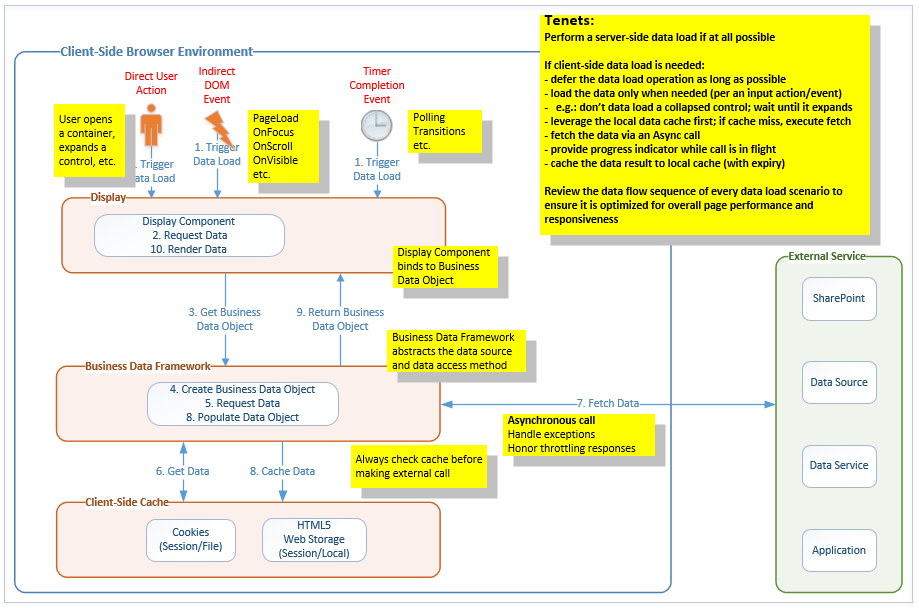
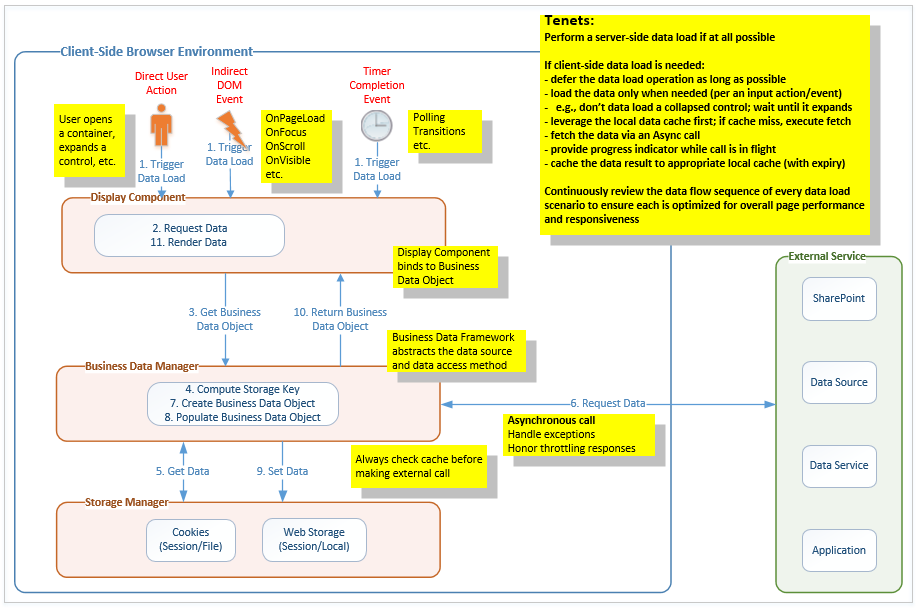
Minor edits; added reference to DAL sample

diff --git a/articles/portal-performance.md b/articles/portal-performance.md
@@ -288,19 +288,27 @@ The Client-Side Data Access Layer (DAL) Framework is a custom client-side JavaSc
 
 There are a number of client-side JavaScript Frameworks and Libraries that you can leverage to implement the DAL. Choose the one with which you are most familiar and adhere to the following tenets.  Use the logical architecture proposed below as a template for your implementation.
 
+The **Client-Side Data Access Layer (DAL) Sample** provides a working reference implementation of the Client-Side Data Access Layer (DAL) Framework. You can access the sample on GitHub:
+
+- [Client-Side Data Access Layer (DAL) Sample](https://github.com/SharePoint/PnP/tree/master/Samples/Portal.DataAccessLayer)
+
 ### Architectural Tenets
 <a name="bk_dalTenets"> </a>
 
 - Performance is Feature #1
 - Core component of the overall client-side framework
 	- to be leveraged by all custom client-side web applications and components for consistency and performance
-- Fulfill data requests via the local data cache; if a cache miss occurs, execute the client-to-server data fetch
-- Fetch the server data via an asynchronous AJAX call (never use a synchronous AJAX call)
+- Fulfill data requests via the client-side data cache; if a cache miss occurs, execute the client-to-server data fetch
+- Fetch the server data via an asynchronous client-to-server AJAX call (never use a synchronous call)
+- Reduce cascading call failures by re-using stale data when/if a data request fails
 - Honor request throttling responses and adjust behavior accordingly
-- Store the server data response in the local cache using a minimal, request-independent JSON representation
-- Support a private cache for personal data and a public cache for shared data
-- Support component-specific cache expiration values that align with the volatility of the associated data
-- Continuously monitor and review data flow scenarios/sequences to ensure each remains optimized for overall page performance and responsiveness
+- Store the server data response in the client-side cache using a minimal, request-independent JSON representation
+- Support transient and durable storage options
+- Use transient storage for personal data and durable storage for shared data
+- Support absolute and sliding expiration policies
+- Allow each storage entry to configure its own storage options for storage (transient/durable), expiration policy (absolute/sliding), and expiration timeout (in minutes)
+- Continuously monitor run-time performance via logging and telemetry 
+- Continuously review data flow scenarios/sequences to ensure each remains optimized for overall page performance and responsiveness
 
 The following diagram shows the logical architecture of the Client-Side Data Access Layer (DAL) Framework:
 
@@ -316,39 +324,45 @@ The logical architecture of the Data Access Layer (DAL) Framework includes the f
 	- Display Controls may present status indicators while data requests are in flight
 - Event-based Data Requests
 	- These event handlers are bound to control or page events and invoke data access methods when fired
-- Business Data Objects
-	- BDOs provide logical data access methods that abstract the underlying data sources
-	- Data can come from a mock, a client-side cache, or the actual data source
+- Business Data Manager
+	- Provides Business Data Objects (BDOs) for use by the Display Components
+	- Provides logical data access methods that abstract the underlying data sources
+	- BDO Data can come from a mock, a client-side cache, or the actual data source
 - External Services
 	- Provide APIs to access server-side (i.e., back-end) data
 	- Includes SharePoint Online, Third-Party Data Services, Custom Data Sources, and Custom Applications
-- Client-Side Data Cache, with Expiration
-	- Client-side Web Storage allows the client environment to store transient data (session storage) and long-term data (local storage), for a specified duration (i.e., expiry)
+- Storage Manager
+	- Provides Client-Side Data Cache semantics, with durability (transient or persistent), duration (expiration timeout), and policy (absolute or sliding)
+	- Web Storage allows the client environment to store transient data (session storage) and long-term data (local storage)
 		- Session storage supports caching of private data
 		- Local storage supports caching of shared data
-	- Serving data from a local cache reduces requests to the actual data source and improves page performance
+	- Cookie support can be added to provide another client-side storage option if needed
+	- Serving data from a client-side cache reduces requests to the actual data source and improves page performance
 
 ### Typical Call Sequence
 <a name="bk_dalCallSequence"> </a>
 
 1. An event (implicit or explicit) occurs within the Client Browser
-2. The Display Control decides that it needs to render Data
-3. The Display Control activates its associated Business Data Object (BDO) and invokes a Data Access Method
-4. The Business Data Framework creates the BDO
-5. The Business Data Framework executes the requested Data Access Method
-6. The Data Access Method queries the Client-Side Cache for the requested data
-	1. If the data is missing, or stale, a Cache Miss occurs
-	2. If the data is present and fresh, a Cache Hit occurs and the data is returned
-7. The Data Access Method issues an (asynchronous) request to fetch the data from the External Service.
-	1. The Display Component displays a progress indicator while the call is in progress
-8. The Data Access method loads the data into the BDO and inserts a copy of the data into the Client-Side Cache (with specific expiration value)
-	1. If the call fails, the method logs a message and loads the stale cache data (if present) or suitable default data 
-9. The BDO (with Data) is returned to the Display Component
-10. The Data is rendered within the Display Component
+2. The Display Component determines that it needs to request Data to render
+3. The Display Component requests its associated Business Data Object (BDO) from the Business Data Manager 
+	- Optionally, the Display Component displays a progress indicator while the request is in progress
+4. The Business Data Manager computes the storage key and determines the storage options for the BDO
+5. The Business Data Manager requests the BDO from the Storage Manager per the storage options
+	- If the BDO is present and fresh, a Cache Hit occurs and the Storage Manager returns the BDO (go to step 10)
+	- If the BDO is absent or stale, a Cache Miss occurs and the Storage Manager returns no BDO (go to step 6)
+6. The Business Data Manager issues an (asynchronous) request to the External Service for fresh data
+	- If the request fails, the Business Data Manager **re-uses** the stale BDO *if present* (go to step 9)
+	- If the request succeeds, the Business Data Manager processes the fresh data response (go to step 7)
+7. The Business Data Manager creates the Business Data Object (BDO)
+8. The Business Data Manager populates the BDO with the fresh data
+9. The Business Data Manager asks the Storage Manager to store the BDO per the storage options 
+10. The Business Data Manager returns the BDO to the Display Component
+11. The Display Component binds to the BDO and renders the data
 
 ## Additional resources
 <a name="bk_additionalResources"> </a>
 
+- [Client-Side Data Access Layer (DAL) Sample](https://github.com/SharePoint/PnP/tree/master/Samples/Portal.DataAccessLayer)
 - [Introduction to Performance Tuning for SharePoint Online](https://support.office.com/en-US/article/Introduction-to-performance-tuning-for-SharePoint-Online-81c4be5f-327e-435d-a568-526d68cffef0)
 - [Office Development Patterns and Practices (PnP) JavaScript Core](https://github.com/SharePoint/PnP-JS-Core)
 - [Learn how to build a fast, responsive SharePoint portal in SharePoint Online](https://channel9.msdn.com/Events/Ignite/2016/BRK3026)
